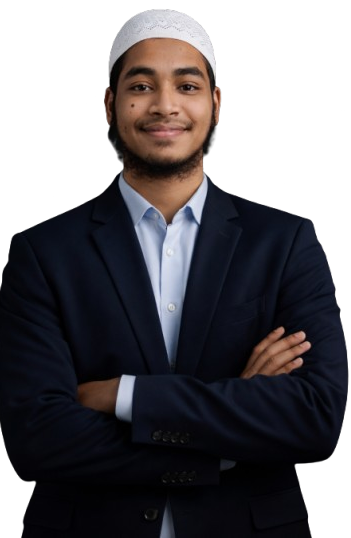
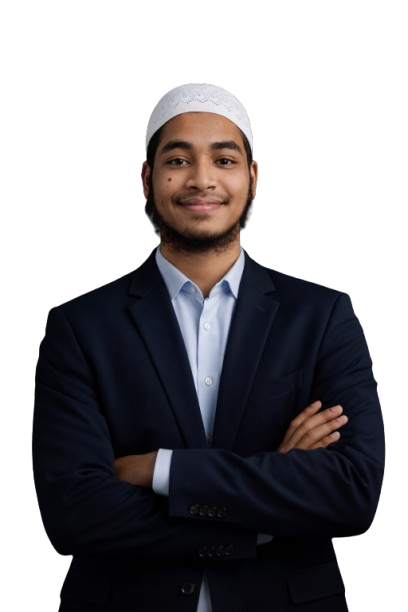
ses of final

diff --git a/styles/portfolio.css b/styles/portfolio.css
@@ -53,9 +53,14 @@ body{
 header{
     background-color:#FFF8F3;
     background: url("../images/developer.png") , url("../images/final.png") , #FFF8F3;
-    background-position: 30px 38px,bottom right;
+    background-position:24px 5px ,bottom right;
+    
+    
+    
     background-repeat: no-repeat;
-    padding-top: 50px;
+    padding-top:50 px;
+    
+    
 
 
 
@@ -64,10 +69,11 @@ nav{
     width:71%;
     max-width:1140px ;
     /* border: solid red; */
-    margin: 0px auto;
+    margin:0 auto;
     display: flex;
     justify-content: space-between;
     align-items: center;
+    padding-top: 50px;
 
 }
 nav .menu{

diff --git a/index.html b/index.html
@@ -11,7 +11,7 @@
 <link rel="stylesheet" href="https://cdnjs.cloudflare.com/ajax/libs/font-awesome/7.0.1/css/all.min.css" integrity="sha512-2SwdPD6INVrV/lHTZbO2nodKhrnDdJK9/kg2XD1r9uGqPo1cUbujc+IYdlYdEErWNu69gVcYgdxlmVmzTWnetw==" crossorigin="anonymous" referrerpolicy="no-referrer" />
 
 <link rel="stylesheet" href="styles/portfolio.css">
-<link rel="icon" href="images/ChatGPT-removebg.png">
+<link rel="icon" href="images/ChatGPT.png">
 
 
 </head>
